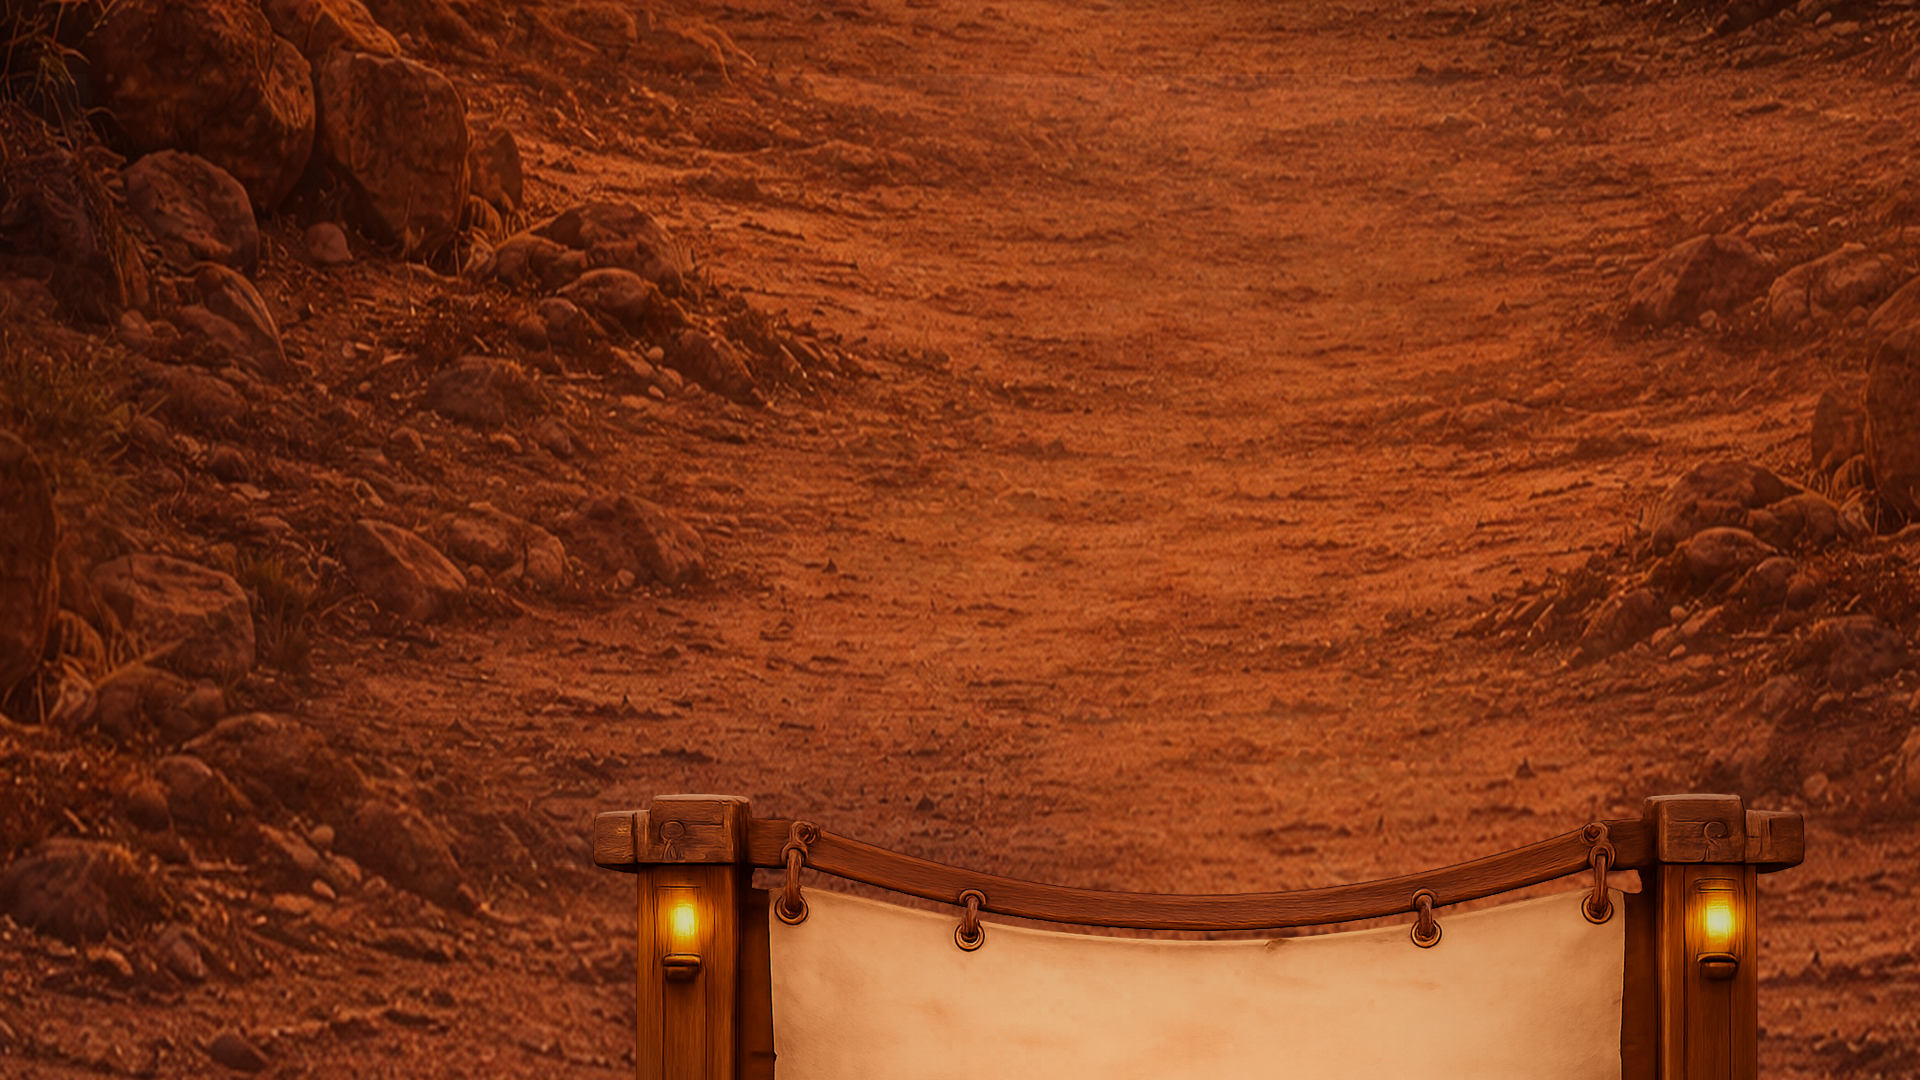
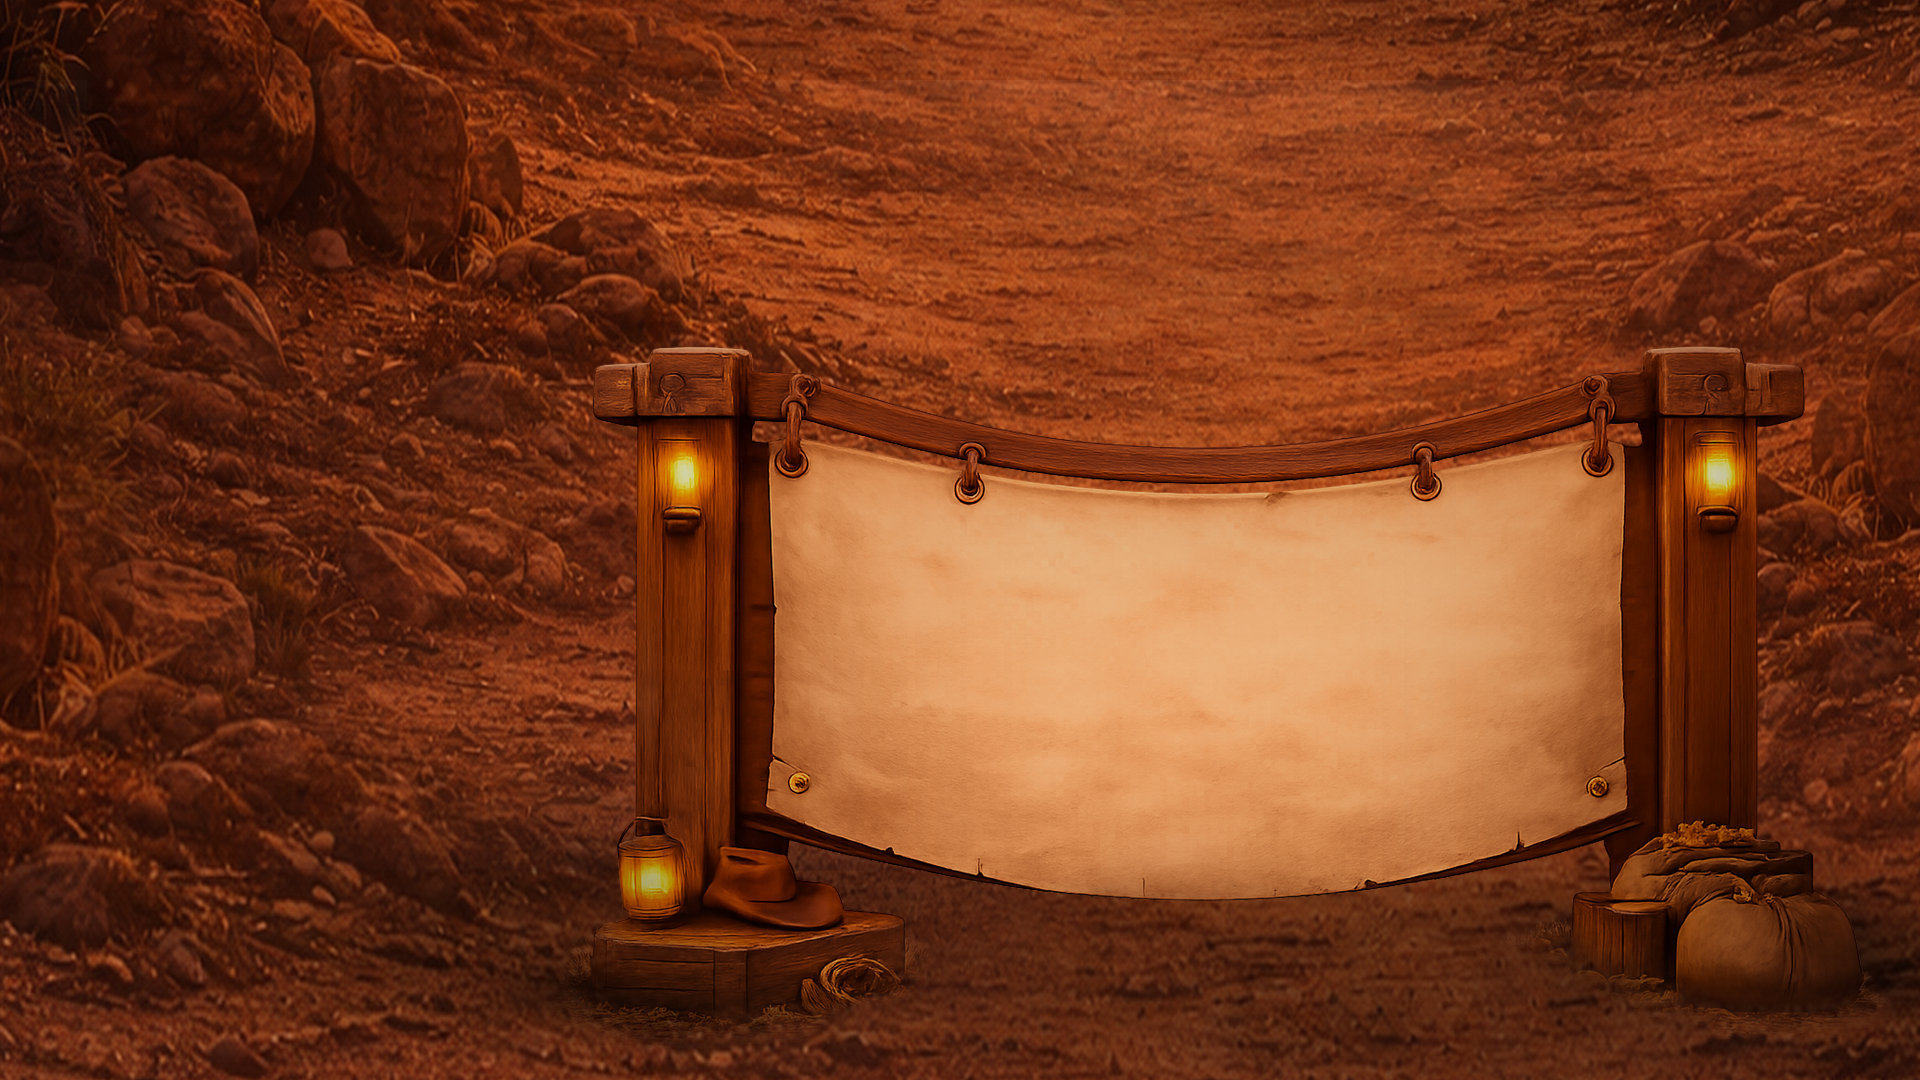
refactor(worked on updating the about section.): Updating the About Text

diff --git a/components/homeComponents/HomeAbout.tsx b/components/homeComponents/HomeAbout.tsx
@@ -2,212 +2,69 @@ import React from 'react';
 import { CSSProperties } from 'react';
 
 const HomeAbout = () => {
-  interface CustomShapesStyles {
-    [key: string]: CSSProperties;
-  }
-
-  const customShapesStyles: CustomShapesStyles = {
-    customShapeOne: {
-      position: 'absolute',
-      top: '13px',
-      left: '27.5%',
-      width: '30%',
-      height: '130px',
-      background: '#C1C8FF',
-      borderRadius: '0px 0px 0px 158px',
-      display: 'flex',
-      flexDirection: 'column',
-      alignItems: 'center',
-      justifyContent: 'center',
-      color: '#000',
-      transition: 'transform 400ms',
-      cursor: 'pointer',
-    },
-    labelBoxOne: {
-      fontWeight: 700,
-      fontSize: 'calc(10px + 2vw)',
-      fontFamily: "'Alfa Slab One', cursive",
-      color: '#5C2E12',
-      marginBottom: '-10px',
-    },
-    customShapeTwo: {
-      position: 'absolute',
-      top: '160px',
-      left: '12.5%',
-      width: '45%',
-      height: '200px',
-      background: '#C1C8FF',
-      borderRadius: '0px 158px 0px 158px',
-      display: 'flex',
-      flexDirection: 'column',
-      alignItems: 'center',
-      justifyContent: 'center',
-      color: '#000',
-      transition: 'transform 400ms',
-      cursor: 'pointer',
-    },
-    labelBoxTwo: {
-      fontWeight: 700,
-      fontSize: 'calc(10px + 2vw)',
-      fontFamily: "'Alfa Slab One', cursive",
-      color: '#5C2E12',
-      marginBottom: '-10px',
-    },
-    customShapeThree: {
-      position: 'absolute',
-      top: '13px',
-      right: '10%',
-      width: '30%',
-      height: '347px',
-      background: '#C1C8FF',
-      borderRadius: '0 158px 0 0',
-      display: 'flex',
-      flexDirection: 'column',
-      alignItems: 'center',
-      justifyContent: 'center',
-      color: '#000',
-      transition: 'transform 400ms',
-      cursor: 'pointer',
-    },
-    labelBoxThree: {
-      fontWeight: 700,
-      fontSize: 'calc(10px + 2vw)',
-      fontFamily: "'Alfa Slab One', cursive",
-      color: '#5C2E12',
-      marginBottom: '-10px',
-    },
-    customShapeFour: {
-      position: 'absolute',
-      top: '13px',
-      left: '12.5%',
-      width: '15%',
-      height: '130px',
-      background: '#C1C8FF',
-      borderRadius: '0 158px 0 0',
-      display: 'flex',
-      alignItems: 'center',
-      justifyContent: 'center',
-      color: '#000',
-      transition: 'transform 400ms',
-      cursor: 'pointer',
-      flexDirection: 'column',
-    },
-    statisticText: {
-      fontSize: 'calc(16px + 0.25vw)',
-      color: '#5C2E12',
-      fontFamily: "'Alfa Slab One', cursive",
-    },
-  };
-
   const styles: { [key: string]: CSSProperties } = {
     container: {
       position: 'relative',
-      display: 'flex',
-      flexDirection: 'column',
-      alignItems: 'center',
-      justifyContent: 'center',
-      color: '#FFFFFF',
-      fontFamily: 'Arial, sans-serif',
-      textAlign: 'center',
       width: '100vw',
       height: '120vh',
       overflow: 'hidden',
-      padding: '6rem 4rem',
-    },
-    header: {
-      fontFamily: "'Alfa Slab One', cursive",
-      fontWeight: 700,
-      fontSize: 'calc(26px + 2.5vw)',
-      color: '#FFFFFF',
-      padding: '1vh 0',
-      textShadow: '0 6px 18px rgba(0,0,0,0.7)',
-      zIndex: 1,
-      position: 'relative',
-    },
-    description: {
-      fontFamily: "'Alfa Slab One', cursive",
-      fontWeight: 400,
-      fontSize: 'calc(12px + 0.8vw)',
-      color: '#FFFFFF',
-      width: '75%',
-      margin: '1vh 0',
-      lineHeight: '1.6',
-      textShadow: '0 6px 18px rgba(0,0,0,0.7)',
-      zIndex: 1,
-      position: 'relative',
+      // IMPORTANT: remove big padding that pushes text around
+      padding: 0,
     },
 
-    statsContainer: {
-      position: 'relative',
-      width: '100%',
-      height: '100%',
-      fontFamily: 'DM Sans, sans-serif',
-      fontWeight: 400,
-      fontSize: '30px',
-      display: 'flex',
-      flexWrap: 'wrap',
-      justifyContent: 'space-around',
-      marginTop: '2vh',
+    // THIS is the "inside the billboard" box
+    billboardText: {
+      position: 'absolute',
+      left: '44%',
+      top: '45%', // move overall block up/down
+      transform: 'translate(-50%, -50%)',
+      width: '50%', // constrain to parchment width
+      maxWidth: '550px', // prevents huge width on large screens
+      textAlign: 'center',
+      color: '#fff',
+      textShadow: '0 6px 18px rgba(0,0,0,0.5)',
+      zIndex: 2,
+      pointerEvents: 'none',
     },
-    statsItem: {
-      width: '45%',
-      margin: '2% 0',
-      position: 'relative',
+
+    header: {
+      fontFamily: "'Alfa Slab One', cursive",
+      fontWeight: 300,
+      fontSize: 'clamp(28px, 4vw, 68px)',
+      margin: 0,
+      // move ONLY the header upward (relative to paragraph)
+      transform: 'translateY(-72px)',
+    },
+
+    description: {
+      fontFamily: "'Alfa Slab One', cursive",
+      fontWeight: 200,
+      fontSize: 'clamp(8px, 1.2vw, 22px)',
+      lineHeight: 1.5,
+      marginTop: '12px',
+      // keep text inside billboard area
+      maxHeight: '42vh',
+      overflow: 'hidden',
     },
   };
 
   return (
-    <div className="section-bg bg-2" style={styles.container}>
-      <div style={{ position: 'absolute', inset: 0, zIndex: 0 }} />
-      <style>
-        {`
-          @media (max-width: 600px) {
-            .container {
-              height: 400vh !important;
-            }
-            .statsContainer {
-              display: flex;
-              flex-direction: column;
-              align-items: center;
-            }
-            .customShapeOne {
-              width: 50% !important;
-              height: 85px !important;
-              left: 45% !important;
-            }
-            .customShapeTwo {
-              width: 90% !important;
-              top: 110px !important;
-              height: 110px !important;
-              left: 5% !important;
-            }
-            .customShapeThree {
-              width: 90% !important;
-              top: 235px !important;
-              height: 275px !important;
-              left: 5% !important;
-            }
-            .customShapeFour {
-              width: 40% !important;
-              height: 85px !important;
-              left: 5% !important;
-            }
-          }
-        `}
-      </style>
-      <h1 className="header" style={styles.header}>
-        About NTHS Hack
-      </h1>
-      <p className="description" style={styles.description}>
-        The Association of Computing Machinery (ACM) at the University of Texas at Dallas will be
-        hosting the third iteration of our hackathon experience! This two day long event will be an
-        intense competition of self expression and creativity through technology, where students
-        will get the chance to showcase their web development skills. High school students across
-        North Texas with varying technical backgrounds will come together, form teams, and build
-        unique solutions from scratch. This beginner-friendly hackathon is an extraordinary
-        opportunity for you to win prizes, compete, and jumpstart your journey in technology!
-      </p>
-    </div>
+    <section className="section-bg bg-2" style={styles.container}>
+      {/* text overlay INSIDE billboard */}
+      <div style={styles.billboardText}>
+        <h1 style={styles.header}>About NTHS Hack</h1>
+        <p style={styles.description}>
+          The Association of Computing Machinery (ACM) at the University of Texas at Dallas will be
+          hosting the third iteration of our hackathon experience! This two day long event will be
+          an intense competition of self expression and creativity through technology, where
+          students will get the chance to showcase their web development skills. High school
+          students across North Texas with varying technical backgrounds will come together, form
+          teams, and build unique solutions from scratch. This beginner-friendly hackathon is an
+          extraordinary opportunity for you to win prizes, compete, and jumpstart your journey in
+          technology!
+        </p>
+      </div>
+    </section>
   );
 };
 

diff --git a/components/homeComponents/HomeVideoStats.tsx b/components/homeComponents/HomeVideoStats.tsx
@@ -2,9 +2,9 @@ import { stats } from '../../lib/data';
 
 export default function HomeVideoStats() {
   return (
-    <section className="section-bg bg-4 z-0 relative min-h-[70vh] md:min-h-[80vh] lg:min-h-[720px] py-[5rem] md:py-[7rem] mb-16">
+    <section className="section-bg bg-3 z-0 relative min-h-[70vh] md:min-h-[80vh] lg:min-h-[720px] py-[5rem] md:py-[7rem] mb-16">
       <div className="flex flex-col justify-center items-center">
-        <div className="space-y-6 md:space-y-8 text-center">
+        <div className="space-y-3 md:space-y-8 text-center">
           {stats.map((stat) => (
             <div key={stat.data} className="mx-auto">
               <p className="stats-title text-2xl md:text-4xl lg:text-5xl">{stat.data}</p>

diff --git a/pages/index.tsx b/pages/index.tsx
@@ -57,7 +57,6 @@ export default function Home(props: {
       <HomeNotif />
       <HomeHero2 />
       <HomeAbout />
-      <HomeHero />
       <HomeVideoStats />
       <HackCountdown />
       <HomeSchedule scheduleCard={props.scheduleCard} dateCard={props.dateCard} />
